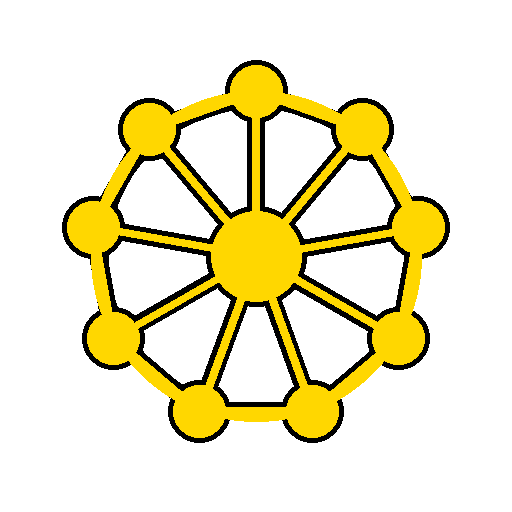
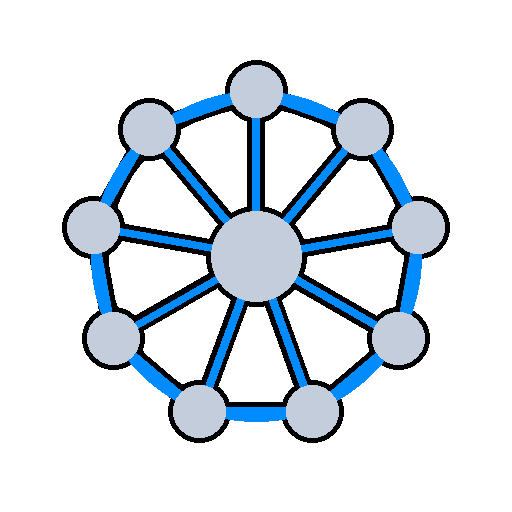
Apply theme: bluesilver with v=6 cache-busting

Changed region(s): [[0.125, 0.125, 0.875, 0.875]]

diff --git a/templates/blog.html b/templates/blog.html
@@ -337,8 +337,8 @@
     }
   </style>
 
-    <link rel="icon" type="image/png" href="/apple-touch-icon.png?v=5">
-  <link rel="shortcut icon" href="/favicon.ico?v=5" type="image/x-icon">
+    <link rel="icon" type="image/png" href="/apple-touch-icon.png?v=6">
+  <link rel="shortcut icon" href="/favicon.ico?v=6" type="image/x-icon">
 </head>
 <body>
 

diff --git a/templates/index.html b/templates/index.html
@@ -53,8 +53,8 @@
   <link href="https://fonts.googleapis.com/css2?family=Inter:wght@300;400;500;600;700&display=swap" rel="stylesheet" />
   <link rel="stylesheet" href="/css/terminal_v2.css" />
 
-    <link rel="icon" type="image/png" href="/apple-touch-icon.png?v=5">
-  <link rel="shortcut icon" href="/favicon.ico?v=5" type="image/x-icon">
+    <link rel="icon" type="image/png" href="/apple-touch-icon.png?v=6">
+  <link rel="shortcut icon" href="/favicon.ico?v=6" type="image/x-icon">
 </head>
 <body>
 